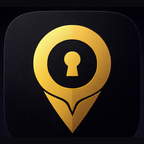
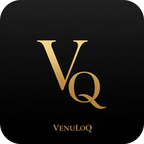
auto-commit for b7fac9b6-6789-4ead-a831-24d16501a660

diff --git a/frontend/src/components/ui/InstallPrompt.js b/frontend/src/components/ui/InstallPrompt.js
@@ -1,0 +1,101 @@
+import React, { useState, useEffect } from 'react';
+import { Download, X, Smartphone } from 'lucide-react';
+
+const InstallPrompt = () => {
+  const [showPrompt, setShowPrompt] = useState(false);
+  const [deferredPrompt, setDeferredPrompt] = useState(null);
+  const [isIOS, setIsIOS] = useState(false);
+
+  useEffect(() => {
+    // Don't show if already installed or dismissed recently
+    const dismissed = sessionStorage.getItem('venuloq_install_dismissed');
+    const isStandalone = window.matchMedia('(display-mode: standalone)').matches || window.navigator.standalone;
+    if (dismissed || isStandalone) return;
+
+    // Detect iOS
+    const ios = /iPad|iPhone|iPod/.test(navigator.userAgent) && !window.MSStream;
+    setIsIOS(ios);
+
+    // For Android/Chrome — capture the beforeinstallprompt event
+    const handler = (e) => {
+      e.preventDefault();
+      setDeferredPrompt(e);
+      setTimeout(() => setShowPrompt(true), 3000);
+    };
+    window.addEventListener('beforeinstallprompt', handler);
+
+    // For iOS — show instruction after delay
+    if (ios) {
+      setTimeout(() => setShowPrompt(true), 5000);
+    }
+
+    return () => window.removeEventListener('beforeinstallprompt', handler);
+  }, []);
+
+  const handleInstall = async () => {
+    if (deferredPrompt) {
+      deferredPrompt.prompt();
+      const { outcome } = await deferredPrompt.userChoice;
+      if (outcome === 'accepted') setShowPrompt(false);
+      setDeferredPrompt(null);
+    }
+  };
+
+  const handleDismiss = () => {
+    setShowPrompt(false);
+    sessionStorage.setItem('venuloq_install_dismissed', '1');
+  };
+
+  if (!showPrompt) return null;
+
+  return (
+    <div className="fixed bottom-4 left-4 right-4 z-50 animate-slideUp" data-testid="install-prompt">
+      <div className="bg-[#0B0B0D] border border-[#E2C06E]/20 rounded-2xl p-4 shadow-[0_8px_32px_rgba(0,0,0,0.4)] backdrop-blur-lg">
+        <button
+          onClick={handleDismiss}
+          className="absolute top-3 right-3 text-white/40 hover:text-white/70 transition-colors"
+          data-testid="install-dismiss"
+        >
+          <X className="w-4 h-4" />
+        </button>
+
+        <div className="flex items-center gap-3">
+          <div className="w-12 h-12 rounded-xl bg-gradient-to-br from-[#E2C06E]/20 to-[#D4B36A]/10 flex items-center justify-center flex-shrink-0">
+            <Smartphone className="w-6 h-6 text-[#E2C06E]" />
+          </div>
+          <div className="flex-1 min-w-0">
+            <h4 className="text-white text-[14px] font-bold" style={{ fontFamily: "'DM Sans', sans-serif" }}>
+              Get the VenuLoQ App
+            </h4>
+            <p className="text-white/50 text-[11px] mt-0.5" style={{ fontFamily: "'DM Sans', sans-serif" }}>
+              {isIOS
+                ? 'Tap the share button, then "Add to Home Screen"'
+                : 'Install for faster access & offline browsing'}
+            </p>
+          </div>
+          {!isIOS && deferredPrompt && (
+            <button
+              onClick={handleInstall}
+              className="flex items-center gap-1.5 px-4 py-2.5 bg-[#E2C06E] text-[#0B0B0D] rounded-xl text-[11px] font-bold uppercase tracking-wider flex-shrink-0 shadow-[0_2px_12px_rgba(226,192,110,0.3)]"
+              style={{ fontFamily: "'DM Sans', sans-serif" }}
+              data-testid="install-button"
+            >
+              <Download className="w-3.5 h-3.5" />
+              Install
+            </button>
+          )}
+        </div>
+      </div>
+
+      <style>{`
+        @keyframes slideUp {
+          from { transform: translateY(100px); opacity: 0; }
+          to { transform: translateY(0); opacity: 1; }
+        }
+        .animate-slideUp { animation: slideUp 0.4s ease-out; }
+      `}</style>
+    </div>
+  );
+};
+
+export default InstallPrompt;

diff --git a/frontend/src/App.js b/frontend/src/App.js
@@ -36,6 +36,7 @@ import SupportPage from "@/pages/SupportPage";
 import PrivacyPage from "@/pages/PrivacyPage";
 import TermsPage from "@/pages/TermsPage";
 import ChatBot from "@/components/ChatBot";
+import InstallPrompt from "@/components/ui/InstallPrompt";
 
 // RM Pages
 import RMDashboard from "@/pages/rm/RMDashboard";
@@ -392,6 +393,7 @@ function App() {
               <AppRouter />
               <CompareFloatingBar />
               <ChatBot />
+              <InstallPrompt />
               <Toaster position="top-right" richColors />
             </BrowserRouter>
           </ThemeProvider>

diff --git a/frontend/public/sw.js b/frontend/public/sw.js
@@ -1,4 +1,4 @@
-const CACHE_NAME = 'venuloq-v1';
+const CACHE_NAME = 'venuloq-v2';
 const STATIC_ASSETS = [
   '/',
   '/index.html',

diff --git a/memory/PRD.md b/memory/PRD.md
@@ -65,6 +65,9 @@ Build and iteratively refine a comprehensive venue booking platform with a premi
 - **Ambient Glow**: Stats/CTA dark sections now have 2x stronger warm gold radial backgrounds
 - **Search Page Refresh**: Warmer banner gradient, brighter sidebar, consistent `#E2C06E` gold across all accents
 - **Elite Event Photos**: Top 10 venue images replaced with aspirational event photography (blue-lit ballrooms, candlelit ceremonies, fairy light weddings, outdoor string light dinners, pink-lit stages, oceanside receptions)
+- **Vertical Card Redesign**: Mobile venue cards switched from tiny horizontal (130x130 thumbnail) to full-width vertical layout (16:10 hero image), making photos the centerpiece
+- **Virtual Tour**: Cards auto-cycle through photos every 3s with crossfade + Ken Burns zoom when in viewport; pauses on manual swipe
+- **PWA Setup**: Full Progressive Web App with branded VQ monogram icon (all sizes), service worker v2 for caching, install prompt banner for mobile users, iOS & Android splash screens
 
 ### Key Components
 - `VenueSearchPage.js` — Main search page with all state management
